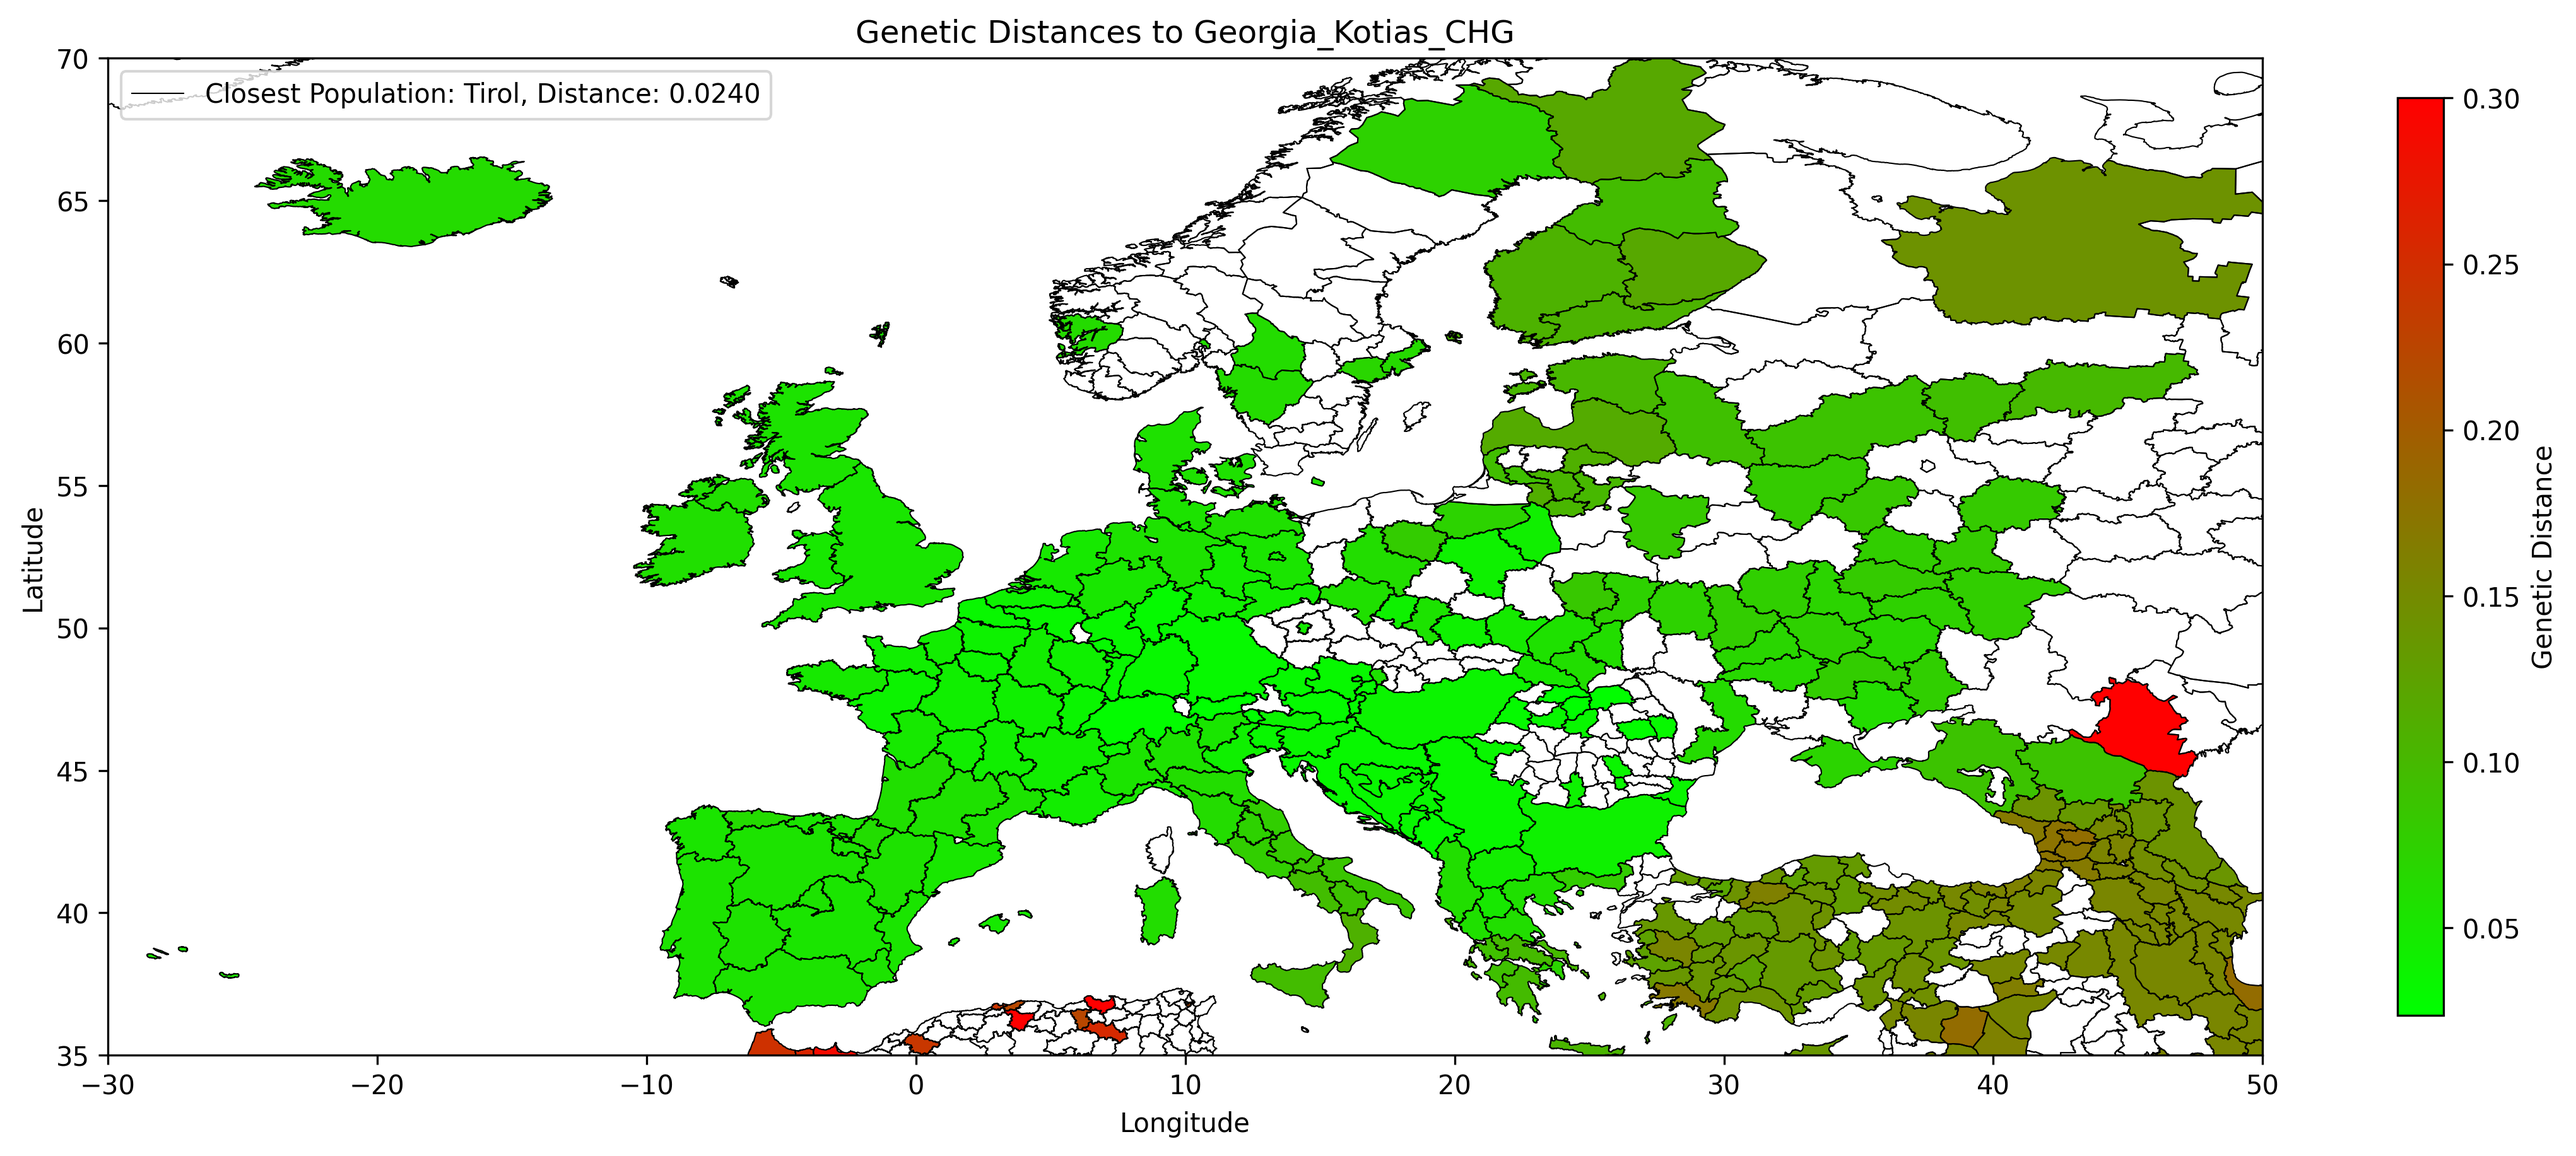
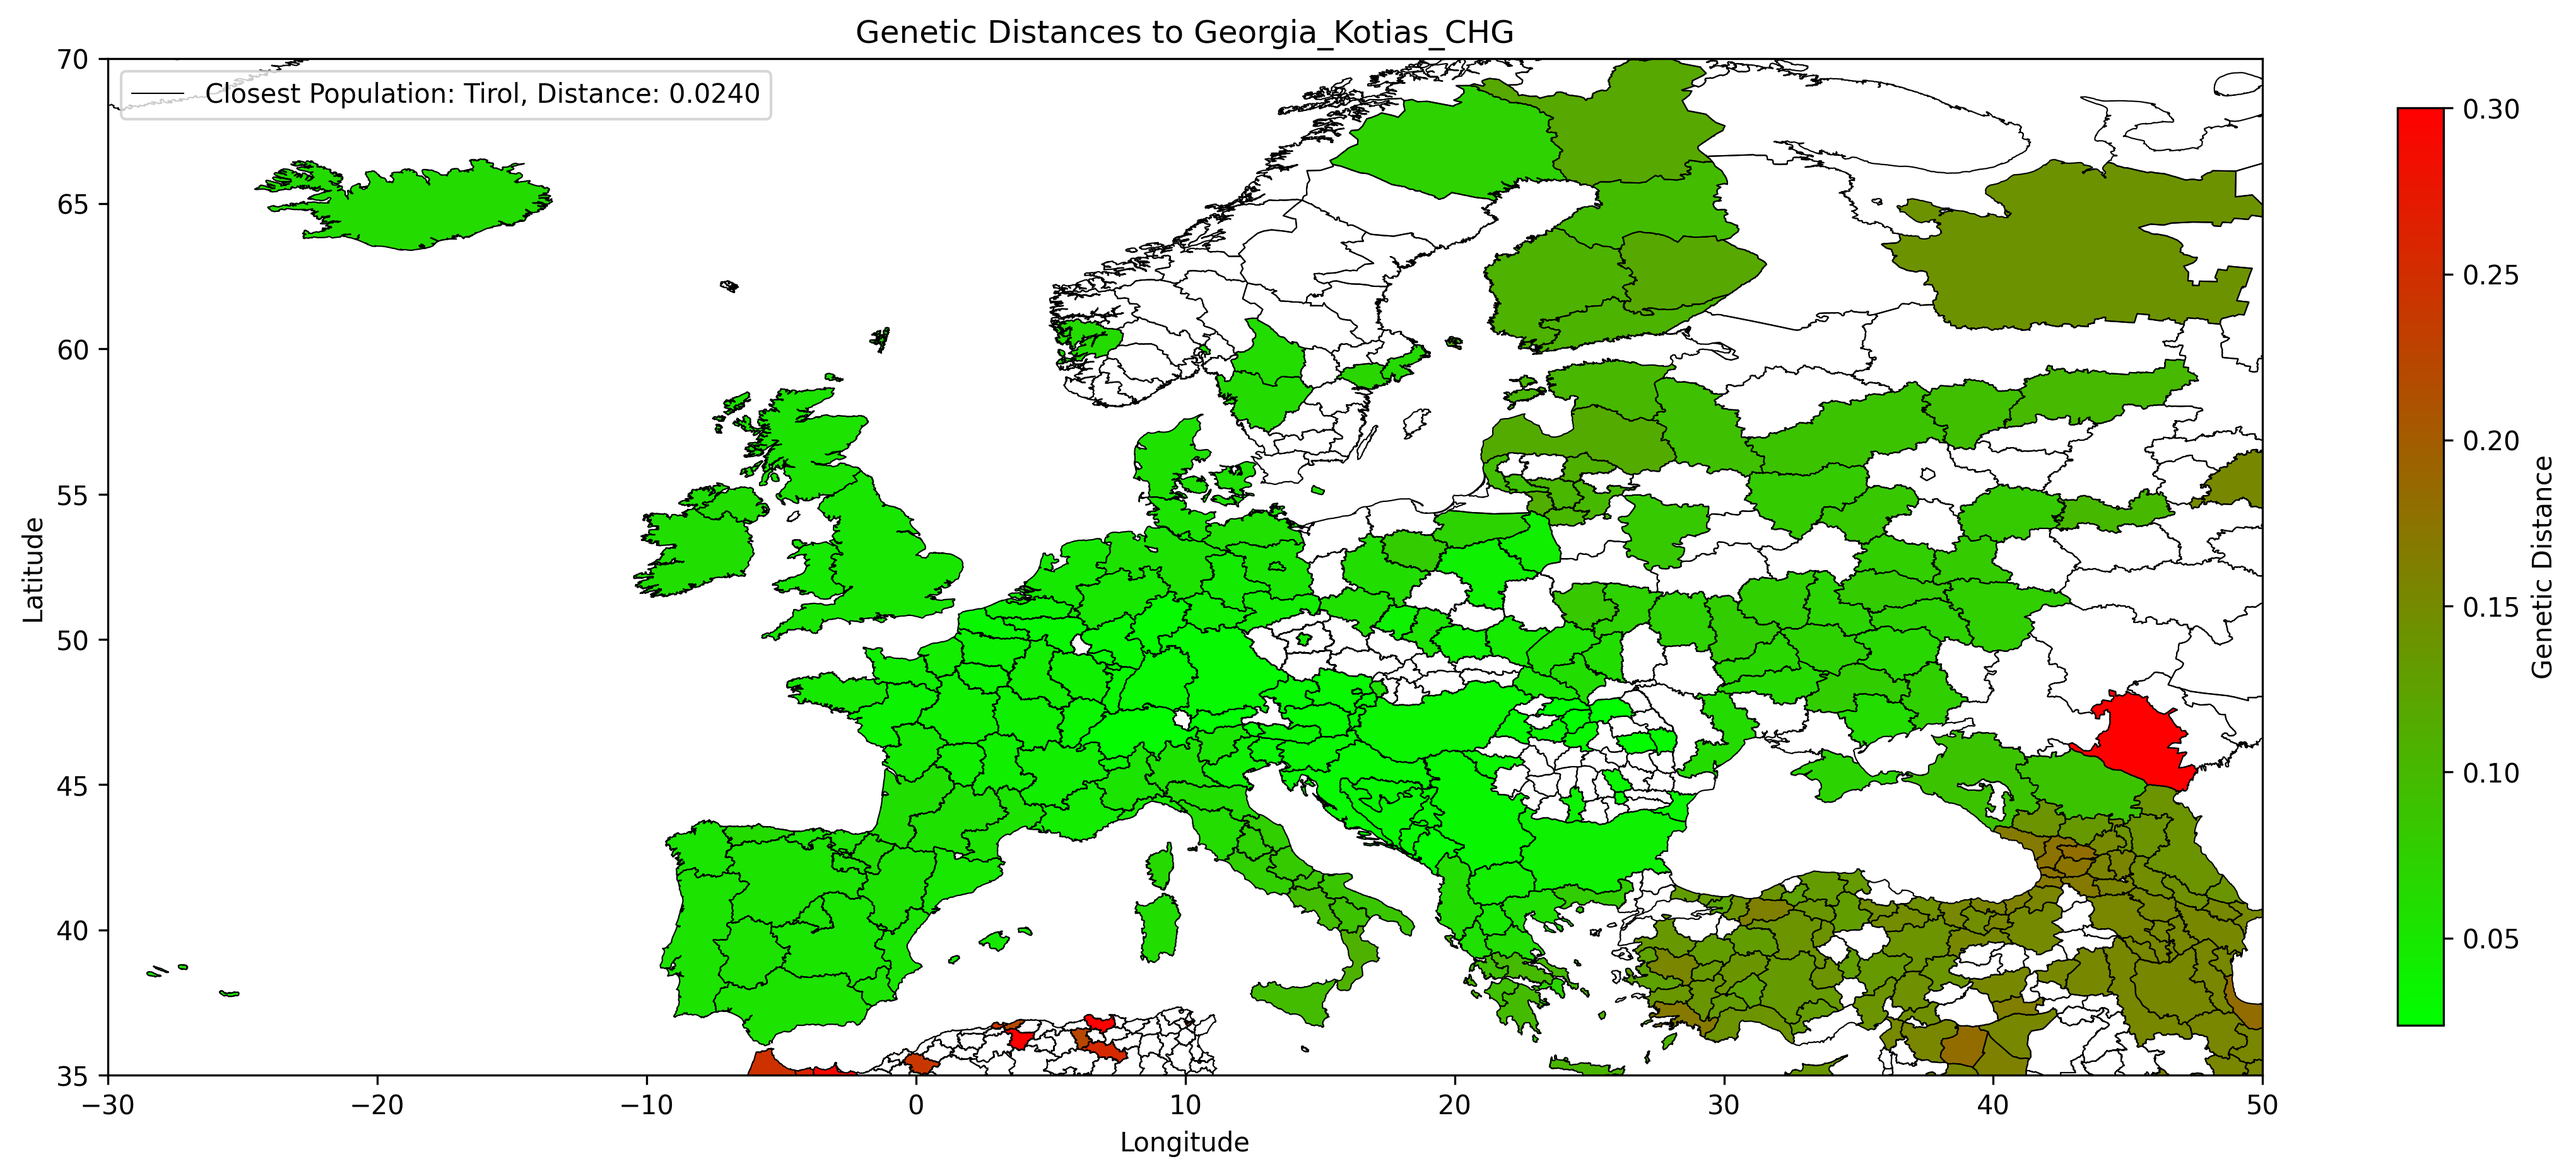
adding more granularity to germany due to large sample size

diff --git a/get_distances_data.py b/get_distances_data.py
@@ -2246,7 +2246,7 @@ mapping = {
     "Polish_Upper_Silesia": "Opolskie",
     "Polish_Warmia-Masuria": "Warminsko-Mazurskie",
     "Polish_Wielkopolska": "Wielkopolskie",
-      "Swiss_German": "Switzerland",  # No exact match, used a plausible geographic region
+    "Swiss_German": "Switzerland",  # No exact match, used a plausible geographic region
     "German_Baden-Wurttemberg": "Baden-Wuerttemberg",
     "German_Bavaria": "Bayern",
     # "German_Bavaria_Lower_Bavaria": "Bayern",
@@ -2343,6 +2343,7 @@ mapping = {
     "French_Oïl_Pays_de_la_Loire_Maine-et-Loire": "Pays-de-la-Loire",
     "French_Oïl_Pays_de_la_Loire_Sarthe": "Pays-de-la-Loire",
     "French_Oïl_Pays_de_la_Loire_Vendee": "Pays-de-la-Loire",
+    "Corsican": "Corse",
     "Alsatian_Bas-Rhin": "Alsace",
     "Alsatian_Haut-Rhin": "Alsace",
         "Spanish_Andalusia_(Andalusian)": "Andalucía",
@@ -2524,6 +2525,10 @@ mapping = {
     "Russian_Tver": "Tverskaya Oblast",
     "Russian_Voronez": "Voronezhskaya Oblast",
     "Russian_Yaroslavl": "Yaroslavskaya Oblast",
+    "Udmurt": "Udmurtiya Rep.",
+    "Mordvin": "Mordoviya Rep.",
+    "Tatar": 'Tatarstan Rep.',
+    "Yakut": "Sakha Rep.",
     "Chechen": "Chechnya Rep.",
     "Avar": "Dagestan Rep.",
     "North_Ossetian": "Severnaya Osetiya-alaniya Rep.",

diff --git a/genetic_distance_plot.py b/genetic_distance_plot.py
@@ -23,7 +23,7 @@ world['genetic_distance'] = world['name1'].map(dict(zip(genetic_data['Region'], 
 print('All entries of names:\n', world['name0'].unique().tolist())
 
 # Filter for a specific country (e.g., Tunisia)
-country = 'Azerbaijan'
+country = 'Russian Federation'
 regions = world[world['name0'] == country]
 region_names = regions['name1'].unique().tolist()
 print(f'All entries of names for {country}:\n', region_names)
